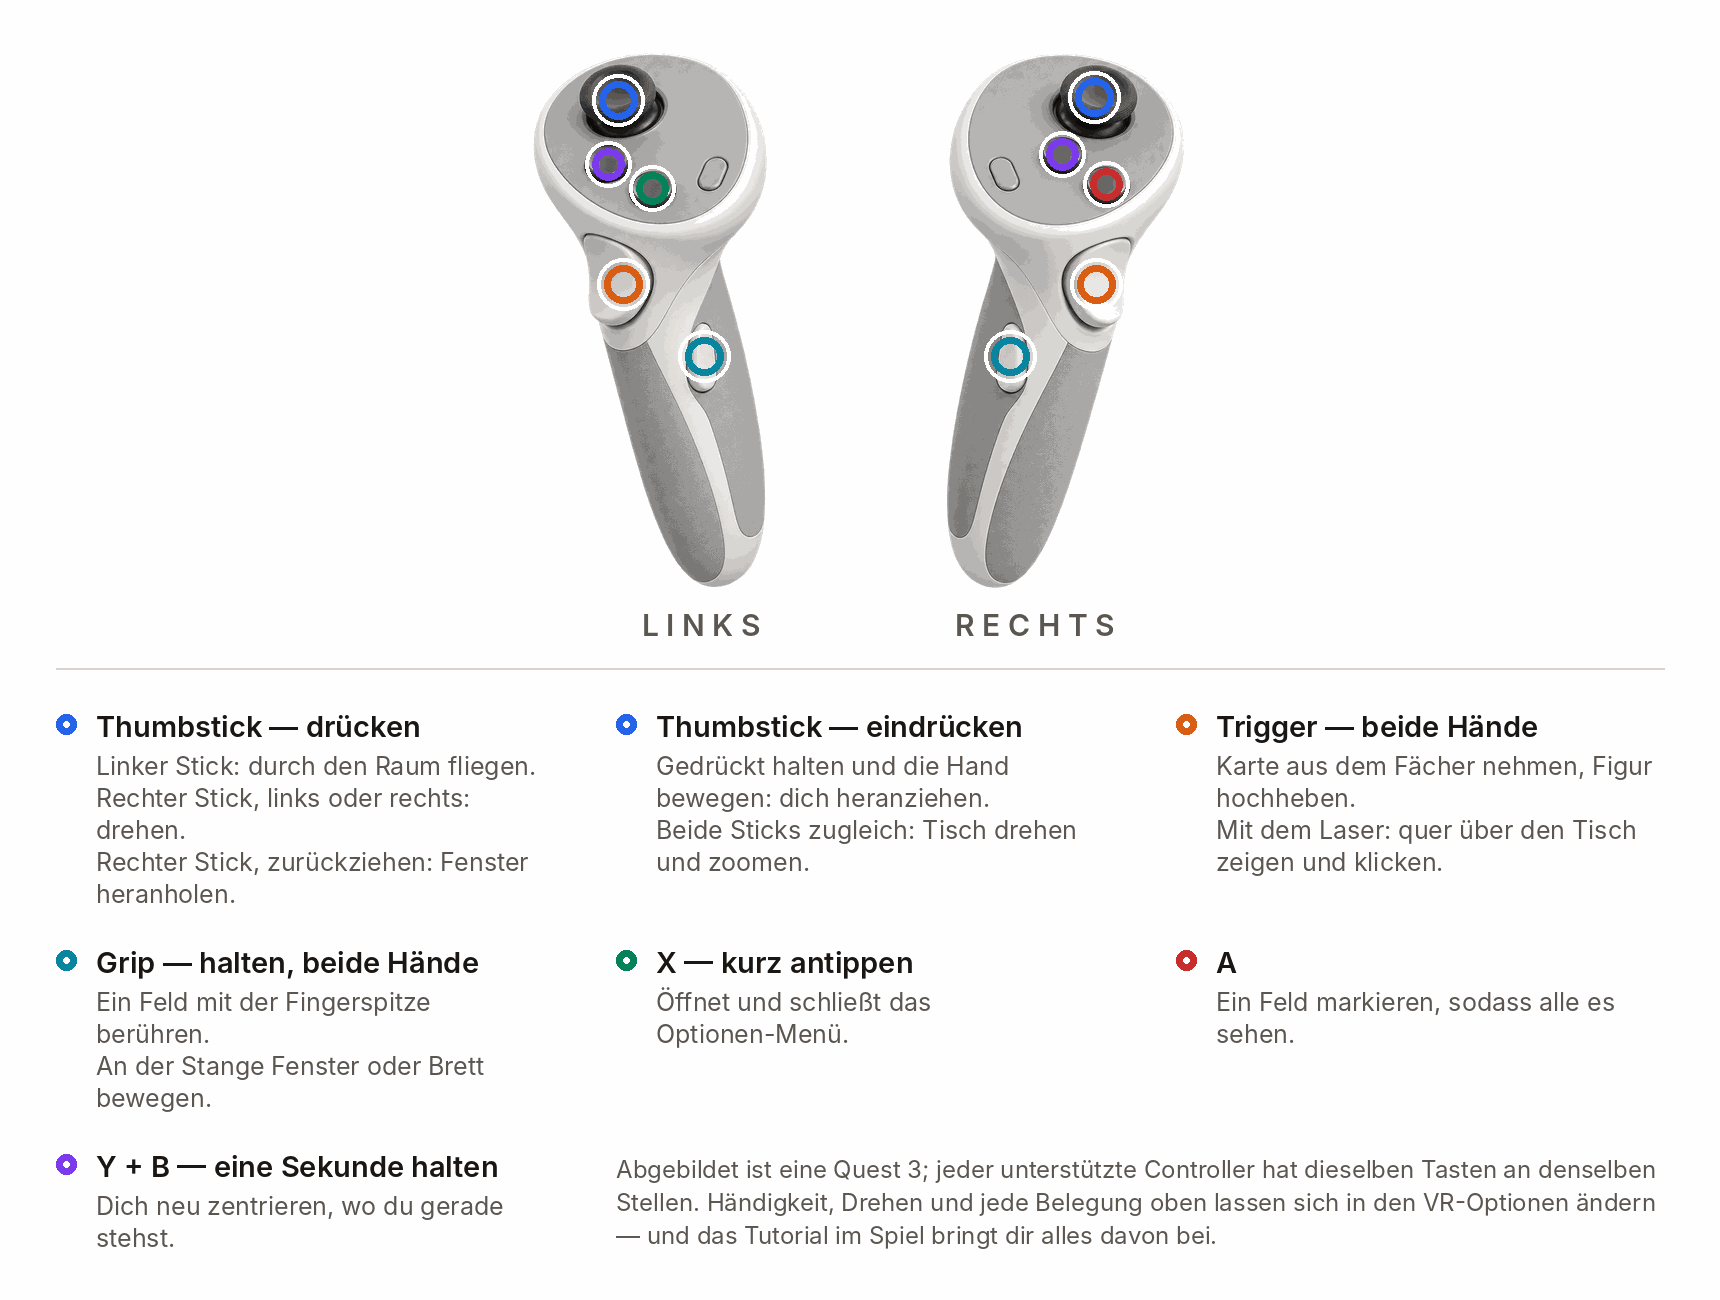
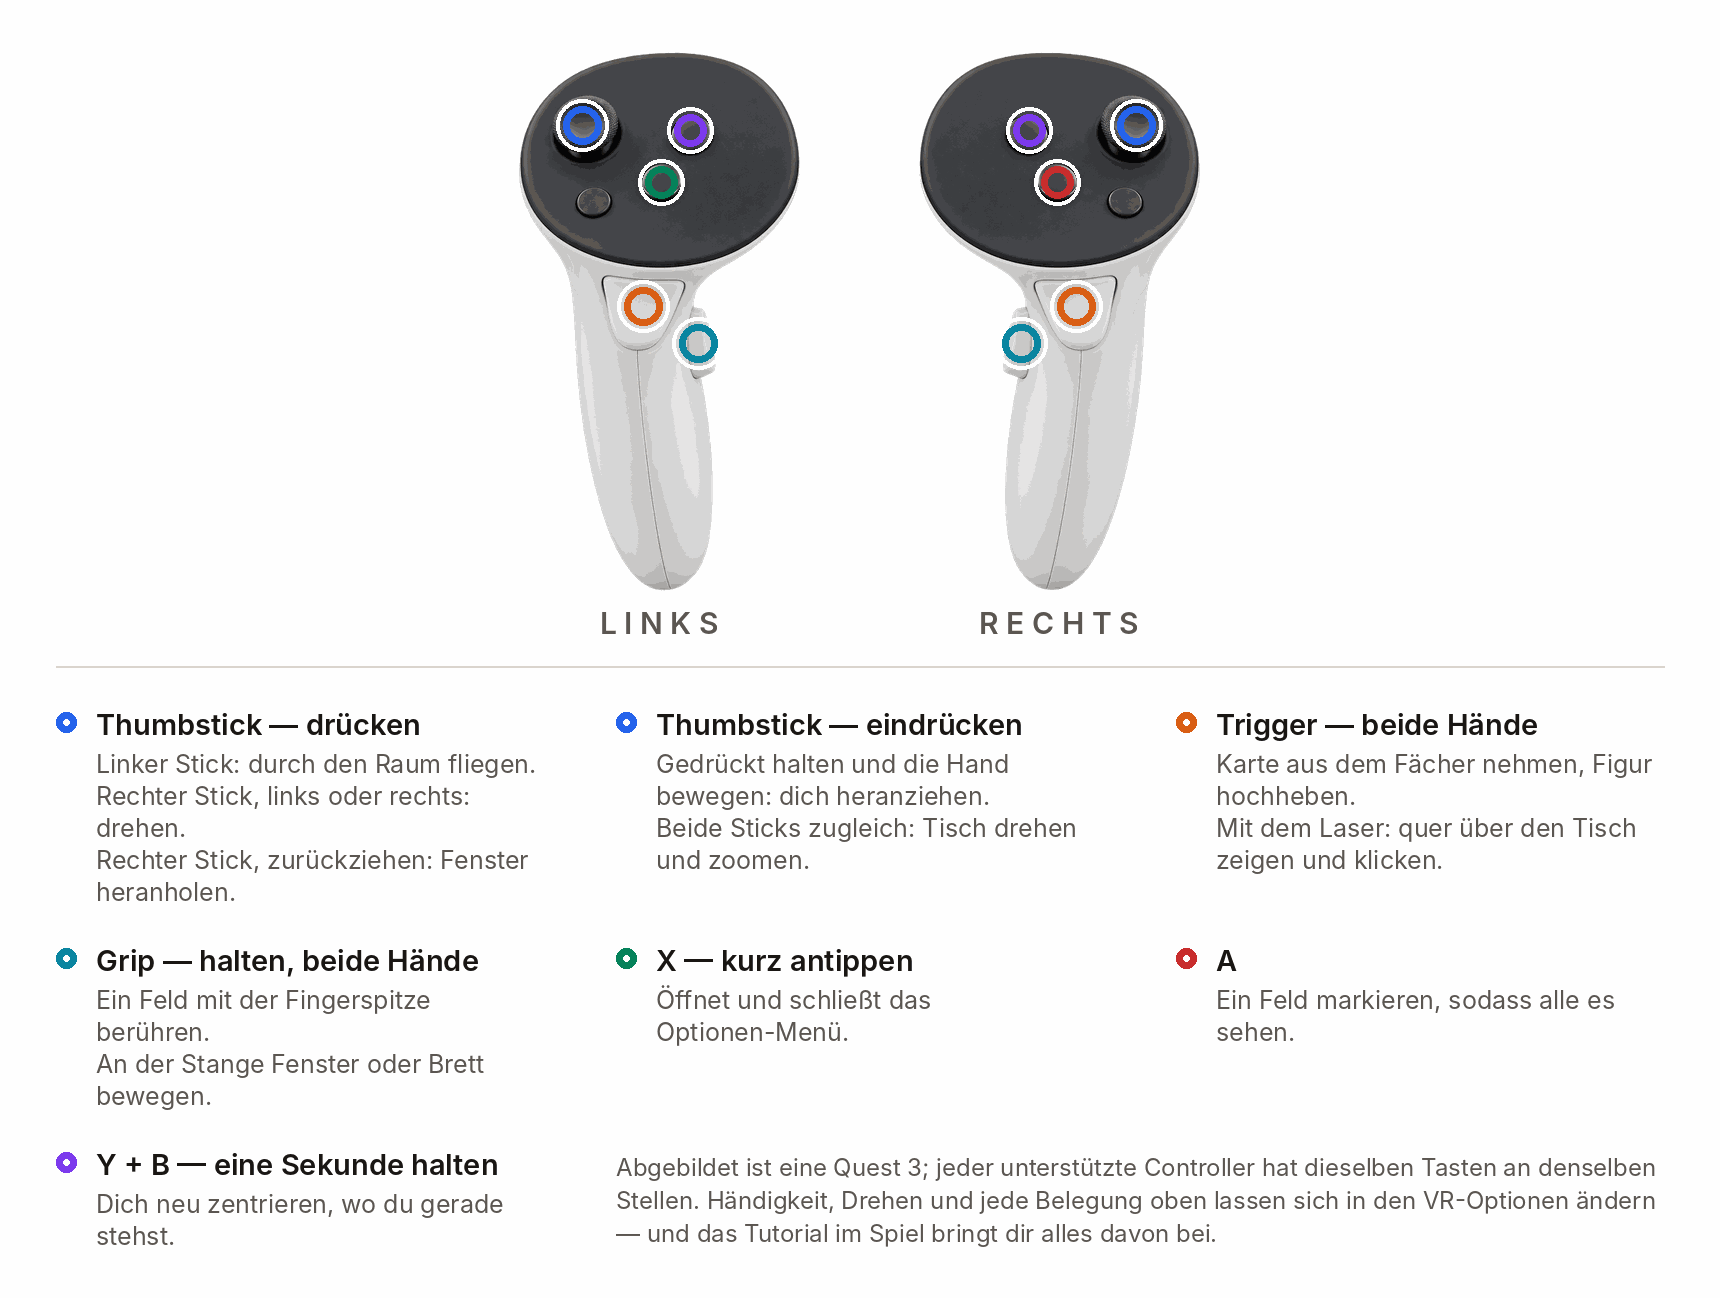
docs(controls): the caption said Quest 3 and the picture did not
The controller map's note claims "A Quest 3 is shown" / "Abgebildet ist eine Quest 3"
and the artwork under it was a generic wand. The user asked for the real thing, because
the Quest 3 is the most widespread headset; a doc that asserts what its own picture
contradicts is the failure this project spent its last round on.

controllers-artwork.png is regenerated as a Meta Quest Touch Plus pair. The decisive
feature is one nobody recalls correctly and every prompt written from memory got wrong,
including the first four candidates here: the top of a Touch Plus is a big matte
charcoal-black oval plate overhanging a WHITE body, not a light-grey shell. The prompt
was rewritten against the Wikimedia Commons reference photographs "Controller of Meta
Quest 3 (left/right).jpg", which also settle the face layout the diagram's rings are
anchored to -- thumbstick at the OUTER top of the plate, the lettered buttons down its
INNER side, the unbound button (menu left, Meta right) BELOW the stick.

Seven candidates, chosen by measurement rather than taste: plate width as a fraction of
the controller's own width (the plate is the widest part of the real part), face-button
diameter as a fraction of plate width (~0.165 on the reference), and whether the trigger
and the grip nub are distinct enough to carry a ring. The winner is an exact mirror pair.

The split the design rests on is untouched: the artwork still carries no text, and every
[…]

diff --git a/docs/img/build-controls-diagram.py b/docs/img/build-controls-diagram.py
@@ -50,15 +50,20 @@ PURPLE = (124, 58, 237)    # Y + B  (the mod's own accent, as on the README vers
 
 # Feature centres in controllers-artwork.png pixel space, read off the render and verified by
 # overlaying probe dots. If the artwork is ever regenerated these all move — re-probe, do not guess.
-L = {"stick": (126, 76), "Y": (112, 162), "X": (172, 194), "trigger": (133, 324), "grip": (242, 421)}
-R = {"stick": (715, 72), "B": (671, 148), "A": (731, 189), "trigger": (718, 324), "grip": (601, 421)}
+# The layout is the real Touch Plus one: the thumbstick sits at the OUTER top of the black plate,
+# the two lettered buttons run down its INNER side, and the unbound button (menu on the left, Meta
+# on the right) sits below the stick. The two halves are exact mirrors about x = 490.
+L = {"stick": (144, 106), "Y": (285, 113), "X": (248, 181), "trigger": (224, 345), "grip": (296, 393)}
+R = {"stick": (836, 106), "B": (695, 113), "A": (732, 181), "trigger": (756, 345), "grip": (684, 393)}
 
 # Canvas. Rendered at 1720 px and shown at 860, so every size here is twice its on-page size.
 W, H     = 1720, 1600   # H is an upper bound; the canvas is cropped to what the legend uses
 ART_TOP  = 44
-SCALE    = 0.74        # the artwork is drawn at its own resolution; this is how big it lands
-GAP_ADD  = 40          # extra air pushed between the two controllers so the rings do not collide
-SPLIT_X  = 421         # column in the artwork that falls in the gap between the two controllers
+SCALE    = 0.76        # the artwork is drawn at its own resolution; this is how big it lands
+GAP_ADD  = 28          # extra air pushed between the two controllers so the rings do not collide
+SPLIT_X  = 490         # column in the artwork that falls in the gap between the two controllers
+                       # — exactly half of it, because each controller is packed centred in its
+                       # own half. That is what lets LEFT / RIGHT below centre with no fudge.
 
 LABELS = {
     "en": {
@@ -179,7 +184,7 @@ def build(lang):
     # --- LEFT / RIGHT under each controller -----------------------------------------------
     f_hand = font("Inter-SemiBold.otf", 30)
     hand_y = ty + art.height + 6
-    for label, cx in ((txt["left"], lx + split // 2 + 20), (txt["right"], rx + (art.width - split) // 2)):
+    for label, cx in ((txt["left"], lx + split // 2), (txt["right"], rx + (art.width - split) // 2)):
         spaced = " ".join(label)
         w = d.textlength(spaced, font=f_hand)
         d.text((cx - w / 2, hand_y), spaced, font=f_hand, fill=INK_SOFT)

diff --git a/docs/img/README.md b/docs/img/README.md
@@ -447,7 +447,7 @@ about 250 words of the old `PLAYING.md`.
 
 | Layer | Where it comes from |
 |---|---|
-| `controllers-artwork.png` | **generated** -- a transparent render of a ring-less controller pair with completely BLANK buttons, made with OpenAI `gpt-image-2` (first attempt; the layout came out correct -- stick, two diagonal face buttons, an inner oval, trigger, grip, correctly mirrored). Quantised to 200 colours: 543 kB to 75 kB, no visible loss at diagram size. |
+| `controllers-artwork.png` | **generated** -- a transparent render of a Meta Quest Touch Plus pair with completely BLANK buttons, made with OpenAI `gpt-image-2`. Redrawn on 2026-09-06 (see below). 980x729, quantised to 200 colours: 427 kB to 52 kB, no visible loss at diagram size. |
 | every ring, every word | **drawn by the script**, as real text in Inter |
 
 **Never ask the generator for the labels.** A model cannot spell reliably, a labelled bitmap would
@@ -467,6 +467,49 @@ Two things in the script are load-bearing:
   re-probe, never guess.
 - **Both thumbstick entries share ONE colour.** A second colour on one physical stick read as a
   second button rather than as a second gesture; that was tried and it was worse.
+
+#### The artwork must be a REAL Quest 3 controller -- 2026-09-06
+
+The first artwork was generic, and the caption under the diagram said *"A Quest 3 is shown" /
+"Abgebildet ist eine Quest 3"*. The picture contradicted the sentence, so one of the two was a lie;
+the user asked for the picture to be fixed, because the Quest 3 is the most widespread headset.
+
+**Prompt from photographs, not from memory.** The decisive feature is one nobody recalls correctly:
+the top of a Touch Plus is a big matte **charcoal-black oval plate** overhanging a **white** body.
+The old artwork, and the first four candidates generated from a written description, all made the
+whole controller light grey -- which is the single most visible way to get a Touch Plus wrong. The
+references used were the Wikimedia Commons photographs `Controller of Meta Quest 3 (left).jpg` and
+`(right).jpg`; they also settle the face layout, which the diagram's rings are anchored to:
+
+> thumbstick at the **outer** top of the plate; the two lettered buttons (X/Y left, A/B right) down
+> its **inner** side on a diagonal; the unbound button -- menu on the left, Meta on the right --
+> **below the thumbstick**; the index trigger on the front of the neck; the squeeze button a small
+> protruding white nub on the **inner** side of the handle. No tracking ring: Touch Plus dropped it.
+
+Seven candidates were generated and the winner picked by measurement, not by taste -- black plate
+width as a fraction of the controller's own width (the plate is the widest part of the real thing),
+face-button diameter as a fraction of plate width (~0.165 on the reference), and whether the trigger
+and the grip nub are distinct enough to carry a ring. The chosen render is an exact mirror pair:
+both halves came out with identical bounding boxes.
+
+**Three preparation steps stand between the raw render and the committed artwork**, and a
+regenerated artwork needs all three again:
+
+1. **Clean the alpha.** `gpt-image-2` wraps the subject in a broad low-alpha white glow and reaches
+   alpha 254 at most, never 255. Remap alpha linearly so everything under 60 becomes 0 and
+   everything over 230 becomes 255; the silhouette's antialias ramp survives.
+2. **Re-centre the halves.** Cut the two controllers apart and re-paste each one *centred in its own
+   half* of the output. That is why `SPLIT_X` is now exactly half the artwork width, and why the
+   `LEFT` / `RIGHT` captions no longer need the fudge offset they used to carry.
+3. **Roll the highlights off.** The render's body tops out near luminance 245 on a 255 paper, and at
+   diagram size the lower half of the handle dissolves into the page. Compressing 190..255 into
+   190..230 keeps the controller off-white -- which is truthful, the real one is white -- while
+   giving the silhouette an edge that survives the downscale to 860 px.
+
+What is still not exact: the plate is rendered as a near-circle where the real one is a slightly
+teardrop-shaped oval, and the handle is a little longer and glossier than the real part. The caption
+stays because the claim it makes is one the picture keeps -- a reader holding a Quest 3 can match
+every marked control on it, one for one.
 
 ### `install-tree-{en,de}.png` -- "did it land in the right place?"
 
